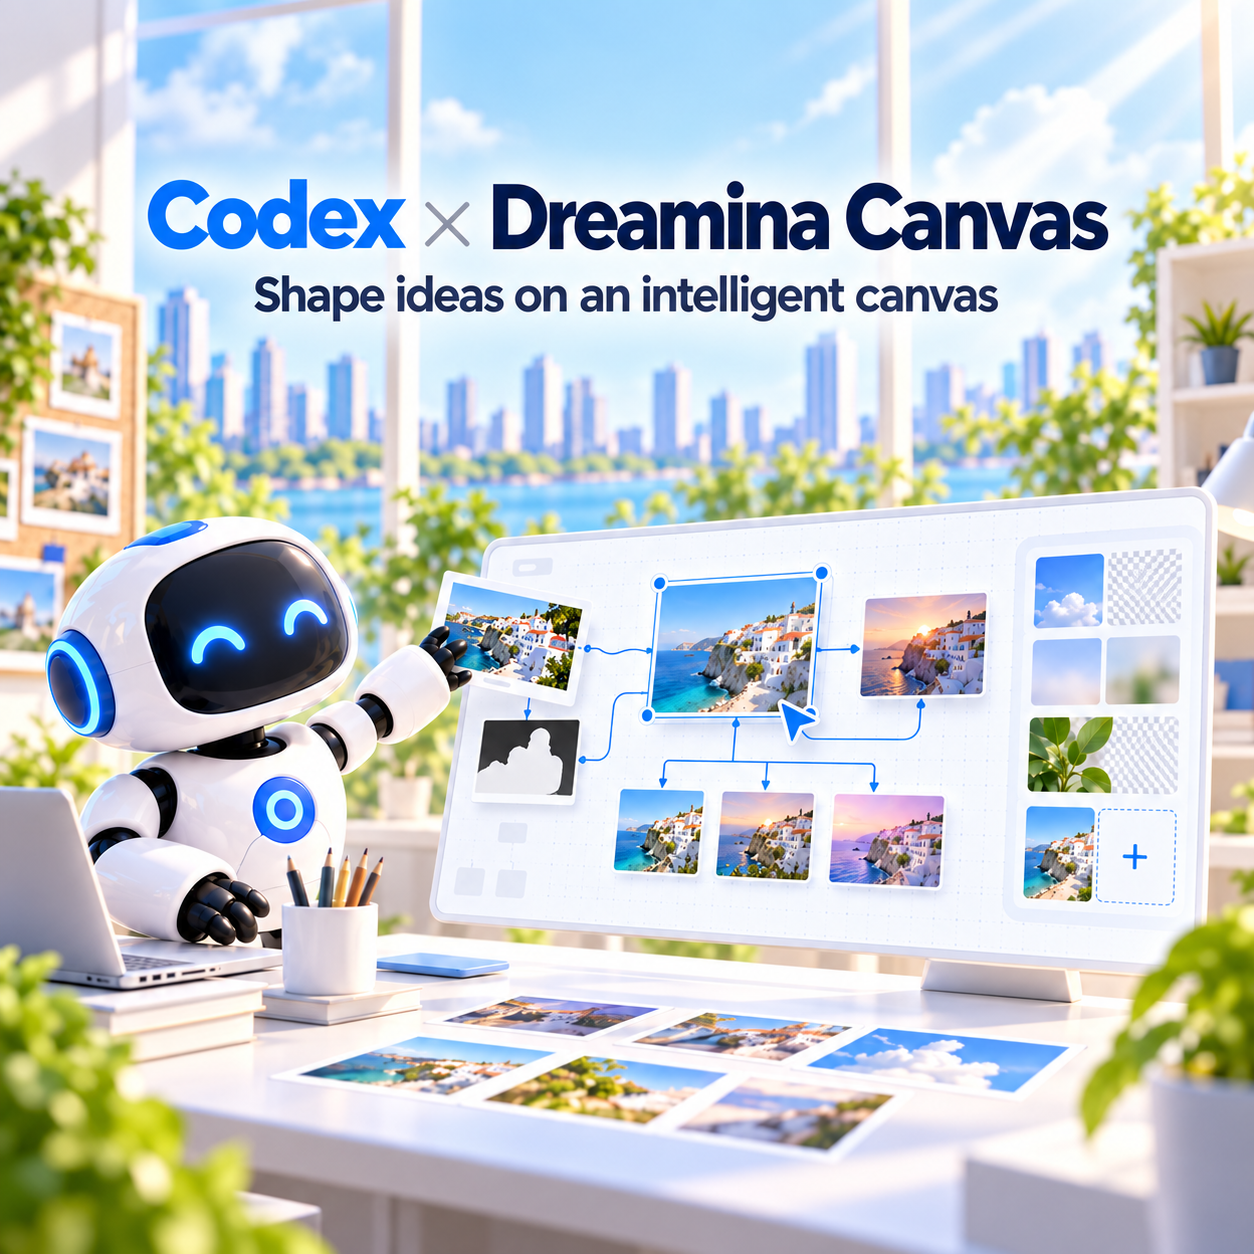
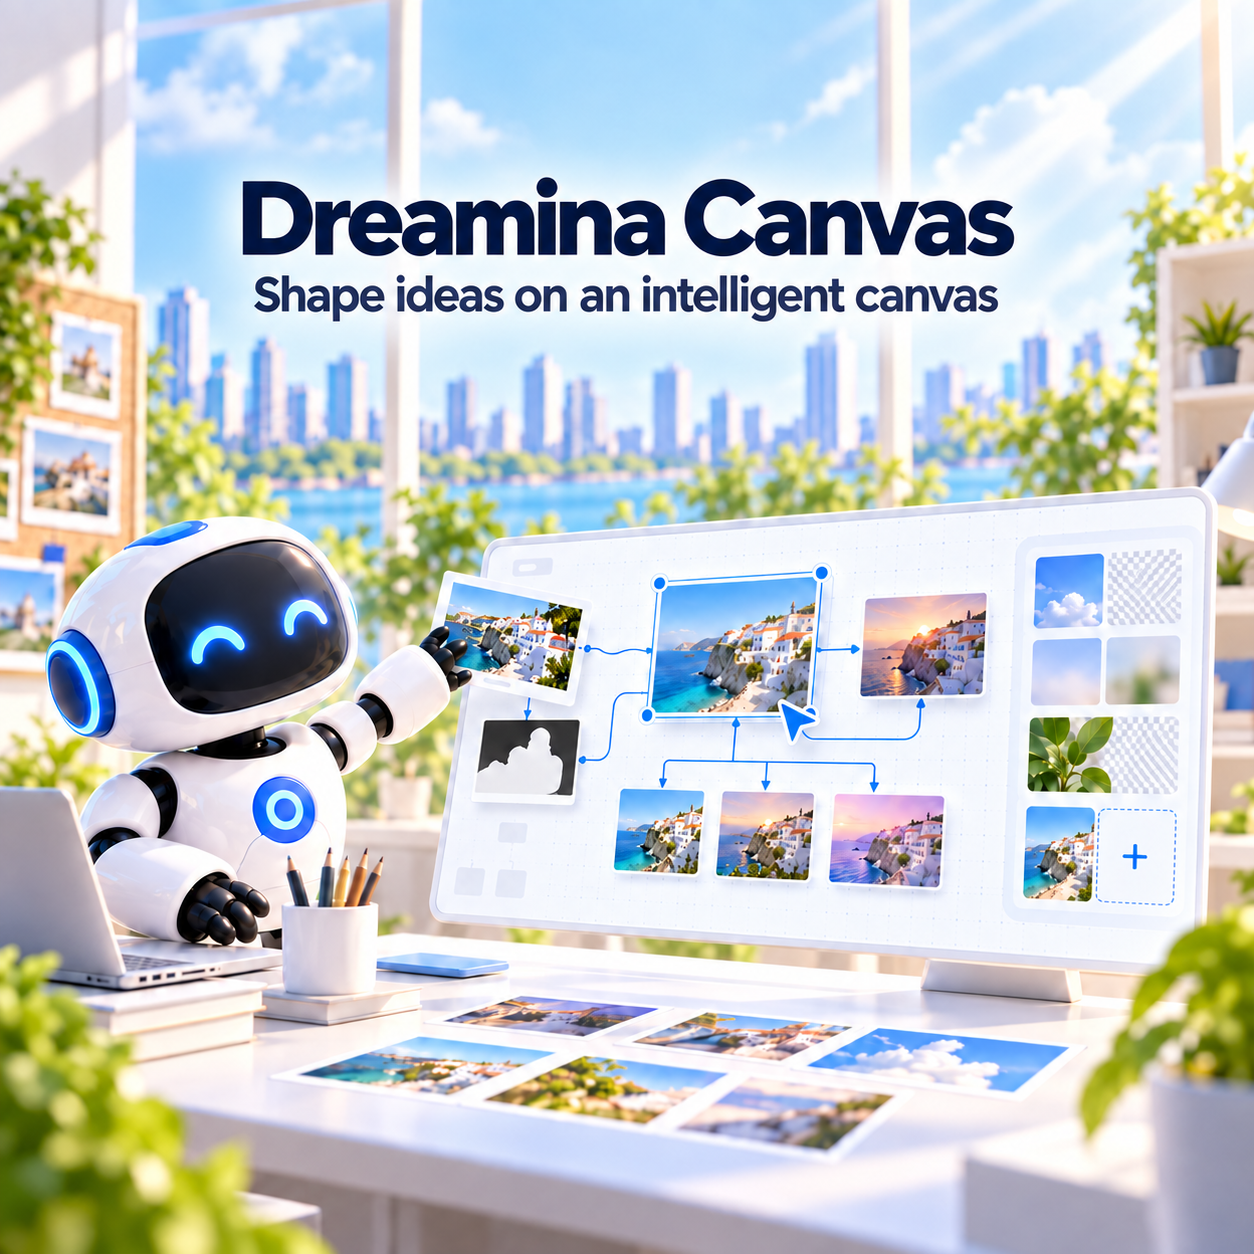
fix: 统一跨宿主公开品牌

diff --git a/tests/test_distribution.py b/tests/test_distribution.py
@@ -70,7 +70,7 @@ class DistributionTests(unittest.TestCase):
     def test_manifest_and_marketplace(self) -> None:
         manifest = load_json(".codex-plugin/plugin.json")
         self.assertEqual(manifest["name"], PLUGIN_ID)
-        self.assertEqual(manifest["version"].split("+", 1)[0], "0.1.5")
+        self.assertEqual(manifest["version"].split("+", 1)[0], "0.1.6")
         self.assertEqual(manifest["repository"], REPOSITORY)
         self.assertEqual(manifest["skills"], "./skills/")
         self.assertNotIn("mcpServers", manifest)
@@ -85,7 +85,7 @@ class DistributionTests(unittest.TestCase):
         marketplace = load_json(".agents/plugins/marketplace.json")
         entries = [entry for entry in marketplace["plugins"] if entry["name"] == PLUGIN_ID]
         self.assertEqual(len(entries), 1)
-        self.assertEqual(entries[0]["source"], {"source": "url", "url": REPOSITORY + ".git", "ref": "v0.1.5"})
+        self.assertEqual(entries[0]["source"], {"source": "url", "url": REPOSITORY + ".git", "ref": "v0.1.6"})
         self.assertEqual(entries[0]["policy"], {"installation": "AVAILABLE", "authentication": "ON_USE"})
 
     def test_structure_legal_and_brand_assets(self) -> None:

diff --git a/tests/test_cross_host_naming.py b/tests/test_cross_host_naming.py
@@ -5,7 +5,12 @@ import unittest
 
 
 ROOT = Path(__file__).resolve().parents[1]
-BANNED_PUBLIC_NAMES = ("codex" + "-dreamina-canvas", "codex" + " Dreamina Canvas", "codex" + "-Dreamina-Canvas",)
+BANNED_PUBLIC_NAMES = (
+    "codex" + "-dreamina-canvas",
+    "codex" + " Dreamina Canvas",
+    "codex" + "-Dreamina-Canvas",
+    "Codex" + " × Dreamina Canvas",
+)
 TEXT_SUFFIXES = {".md", ".json", ".py", ".mjs", ".js", ".toml", ".yaml", ".yml", ".svg"}
 EXCLUDED_PARTS = {".git", ".mimosa", ".worktrees", ".superpowers", "artifacts", "openspec", "superpowers", "verification", "__pycache__"}
 

diff --git a/README.md b/README.md
@@ -1,12 +1,12 @@
 # Dreamina Canvas Plugin
 
-![Codex × Dreamina Canvas — Shape ideas on an intelligent canvas](assets/dreamina-canvas-hero.png)
+![Dreamina Canvas — Shape ideas on an intelligent canvas](assets/dreamina-canvas-hero.png)
 
 <img src="assets/logo.png" alt="Dreamina Canvas logo" width="128">
 
-> Build, quote, and run structured Dreamina canvases from Codex — with the free and paid steps kept apart.
+> Build, quote, and run structured Dreamina canvases from your supported coding agent — with the free and paid steps kept apart.
 
-[![Version](https://img.shields.io/badge/version-0.1.5-blue)](https://github.com/full-aigc-plugins/dreamina-canvas-plugin/releases/tag/v0.1.5)
+[![Version](https://img.shields.io/badge/version-0.1.6-blue)](https://github.com/full-aigc-plugins/dreamina-canvas-plugin/releases/tag/v0.1.6)
 [![License](https://img.shields.io/badge/license-Apache--2.0-green)](LICENSE)
 
 [English](README.md) | [简体中文](README.zh-CN.md) · [Install](#installation) · [Quick start](#quick-start) · [Operation contract](#operation-contract) · [Troubleshooting](#troubleshooting)
@@ -57,7 +57,7 @@ Canvas project + verified local assets
 |---|---|
 | Plugin ID | `dreamina-canvas` |
 | Host | Codex CLI or ChatGPT desktop app |
-| Current version | `0.1.5` |
+| Current version | `0.1.6` |
 | Plugin manifest | `.codex-plugin/plugin.json` (compatibility) and `plugin.json` (portable) |
 | MCP configuration | none — the plugin drives the local CLI through Skills |
 | Primary language | Python 3.11+ |
@@ -119,13 +119,13 @@ flowchart LR
 | `scripts/approval_guard.py` | Quote binding, credit ceiling, replay rejection | Cost estimation |
 | `scripts/artifact_guard.py` | Download verification and receipts | Remote object lifetime |
 | `scripts/error_router.py` | Mapping CLI exit codes to typed next actions | Retry execution |
-| `skills/` (14) | Routing and per-capability instructions for Codex | Runtime enforcement |
+| `skills/` (14) | Routing and per-capability instructions for supported hosts | Runtime enforcement |
 
 ## Compatibility
 
 | Plugin version | Host | CLI | Python | Status |
 |---|---|---|---|---|
-| `0.1.5` | Codex CLI or ChatGPT desktop app | `dreamina-canvas` installed and authenticated by you | 3.11, 3.12, 3.13 (CI matrix) | Verified |
+| `0.1.6` | Codex CLI or ChatGPT desktop app | `dreamina-canvas` installed and authenticated by you | 3.11, 3.12, 3.13 (CI matrix) | Verified |
 
 CLI runtime, version, command compatibility, explicitly authorized account authentication, and the separately approved paid canary are recorded as **PASS** in the [runtime evidence](docs/verification/dreamina-canvas-runtime.md).
 
@@ -134,7 +134,7 @@ CLI runtime, version, command compatibility, explicitly authorized account authe
 ### From the plugin marketplace
 
 ```bash
-codex plugin marketplace add full-aigc-plugins/dreamina-canvas-plugin --ref v0.1.5
+codex plugin marketplace add full-aigc-plugins/dreamina-canvas-plugin --ref v0.1.6
 codex plugin add dreamina-canvas@partme-ai-dreamina-canvas
 ```
 

diff --git a/docs/Dreamina-Canvas-Plugin-Architecture.md b/docs/Dreamina-Canvas-Plugin-Architecture.md
@@ -5,7 +5,7 @@
 > | Field | Value |
 > |---|---|
 > | Status | Implemented and released as `0.1.2` |
-> | Scope | The Codex plugin in this repository: the CLI adapter, guards, ledger, and Skills |
+> | Scope | The cross-host plugin in this repository: the CLI adapter, guards, ledger, and Skills |
 > | Audience | Plugin maintainers, security reviewers, and integration engineers |
 > | Out of scope | The Dreamina Canvas service itself, the CLI's internals, and the upstream Skill library |
 > | Runtime evidence | `docs/verification/` |
@@ -13,7 +13,7 @@
 
 ## 1. Executive summary
 
-This repository packages the Dreamina Canvas CLI for Codex as a guarded extension. It does not implement generation, pricing, or authentication. It implements the contract that turns an open-ended creative request into a bounded, budgeted, resumable operation:
+This repository packages the Dreamina Canvas CLI for supported coding-agent hosts as a guarded extension. It does not implement generation, pricing, or authentication. It implements the contract that turns an open-ended creative request into a bounded, budgeted, resumable operation:
 
 - capability values are discovered at runtime, never hard-coded;
 - saving and running are separate operations;
@@ -188,7 +188,7 @@ Operations are executable rather than aspirational: `python -m unittest discover
 
 | Aspect | Position |
 |---|---|
-| Distribution | Cross-host marketplace entry pointing at this repository, pinned to immutable `v0.1.5` |
+| Distribution | Cross-host marketplace entry pointing at this repository, pinned to immutable `v0.1.6` |
 | Manifests | `.codex-plugin/plugin.json` (compatibility) and `plugin.json` (portable) |
 | Python | 3.11, 3.12, and 3.13 in the CI matrix |
 | Upstream Skills | Pinned by commit in `upstream/dreamina-skills.lock.json` and byte-verified |

diff --git a/docs/verification/doc-quality-gates.md b/docs/verification/doc-quality-gates.md
@@ -11,10 +11,10 @@ Audited set:
 ```text
 README.md
 README.zh-CN.md
-docs/Codex-Dreamina-Canvas-Plugin-Architecture.md
-docs/Codex-Dreamina-Canvas-Plugin-Architecture.zh_CN.md
-docs/Codex-Dreamina-Canvas-Plugin-Technical-Solution.md
-docs/Codex-Dreamina-Canvas-Plugin-Technical-Solution.zh_CN.md
+docs/Dreamina-Canvas-Plugin-Architecture.md
+docs/Dreamina-Canvas-Plugin-Architecture.zh_CN.md
+docs/Dreamina-Canvas-Plugin-Technical-Solution.md
+docs/Dreamina-Canvas-Plugin-Technical-Solution.zh_CN.md
 ```
 
 | # | Gate | Result | Evidence |
@@ -42,5 +42,5 @@ docs/Codex-Dreamina-Canvas-Plugin-Technical-Solution.zh_CN.md
 - The wider 30-document deliverable (five plugins × six documents) is a
   separate program spanning five repositories and is tracked outside this
   repository. Its status at the time of writing: 26/30 — this repository 6/6,
-  `codex-maya-plugin` 6/6, `codex-dreamina-design-plugin` 6/6,
-  `codex-dreamina-3d-plugin` 6/6, `codex-blender-plugin` 2/6.
+  `maya-design-plugin` 6/6, `dreamina-design-plugin` 6/6,
+  `dreamina-3d-plugin` 6/6, `blender-design-plugin` 2/6.

diff --git a/PRIVACY.md b/PRIVACY.md
@@ -1,8 +1,7 @@
 # Privacy
 
-Dreamina Canvas is a local Codex plugin foundation. It does not include telemetry, advertising, or a hosted data service.
+Dreamina Canvas is a local, cross-host plugin foundation. It does not include telemetry, advertising, or a hosted data service.
 
 Future capabilities may read user-selected project files or invoke locally installed applications and CLIs. They must keep access within the user-approved scope, must not persist credentials in this repository, and must document any external data transfer before release.
 
 Generated previews, receipts, logs, and downloaded artifacts remain under paths selected by the user. Users should review third-party product privacy terms before enabling integrations.
-

diff --git a/docs/Dreamina-Canvas-Plugin-Architecture.zh_CN.md b/docs/Dreamina-Canvas-Plugin-Architecture.zh_CN.md
@@ -188,7 +188,7 @@ stateDiagram-v2
 
 | 方面 | 立场 |
 |---|---|
-| 分发 | 指向本仓库、固定到不可变 `v0.1.5` 的跨宿主 marketplace 条目 |
+| 分发 | 指向本仓库、固定到不可变 `v0.1.6` 的跨宿主 marketplace 条目 |
 | 清单 | `.codex-plugin/plugin.json`（兼容）与 `plugin.json`（便携） |
 | Python | CI 矩阵覆盖 3.11、3.12 与 3.13 |
 | 上游 Skill | 由 `upstream/dreamina-skills.lock.json` 按提交固定并逐字节校验 |
